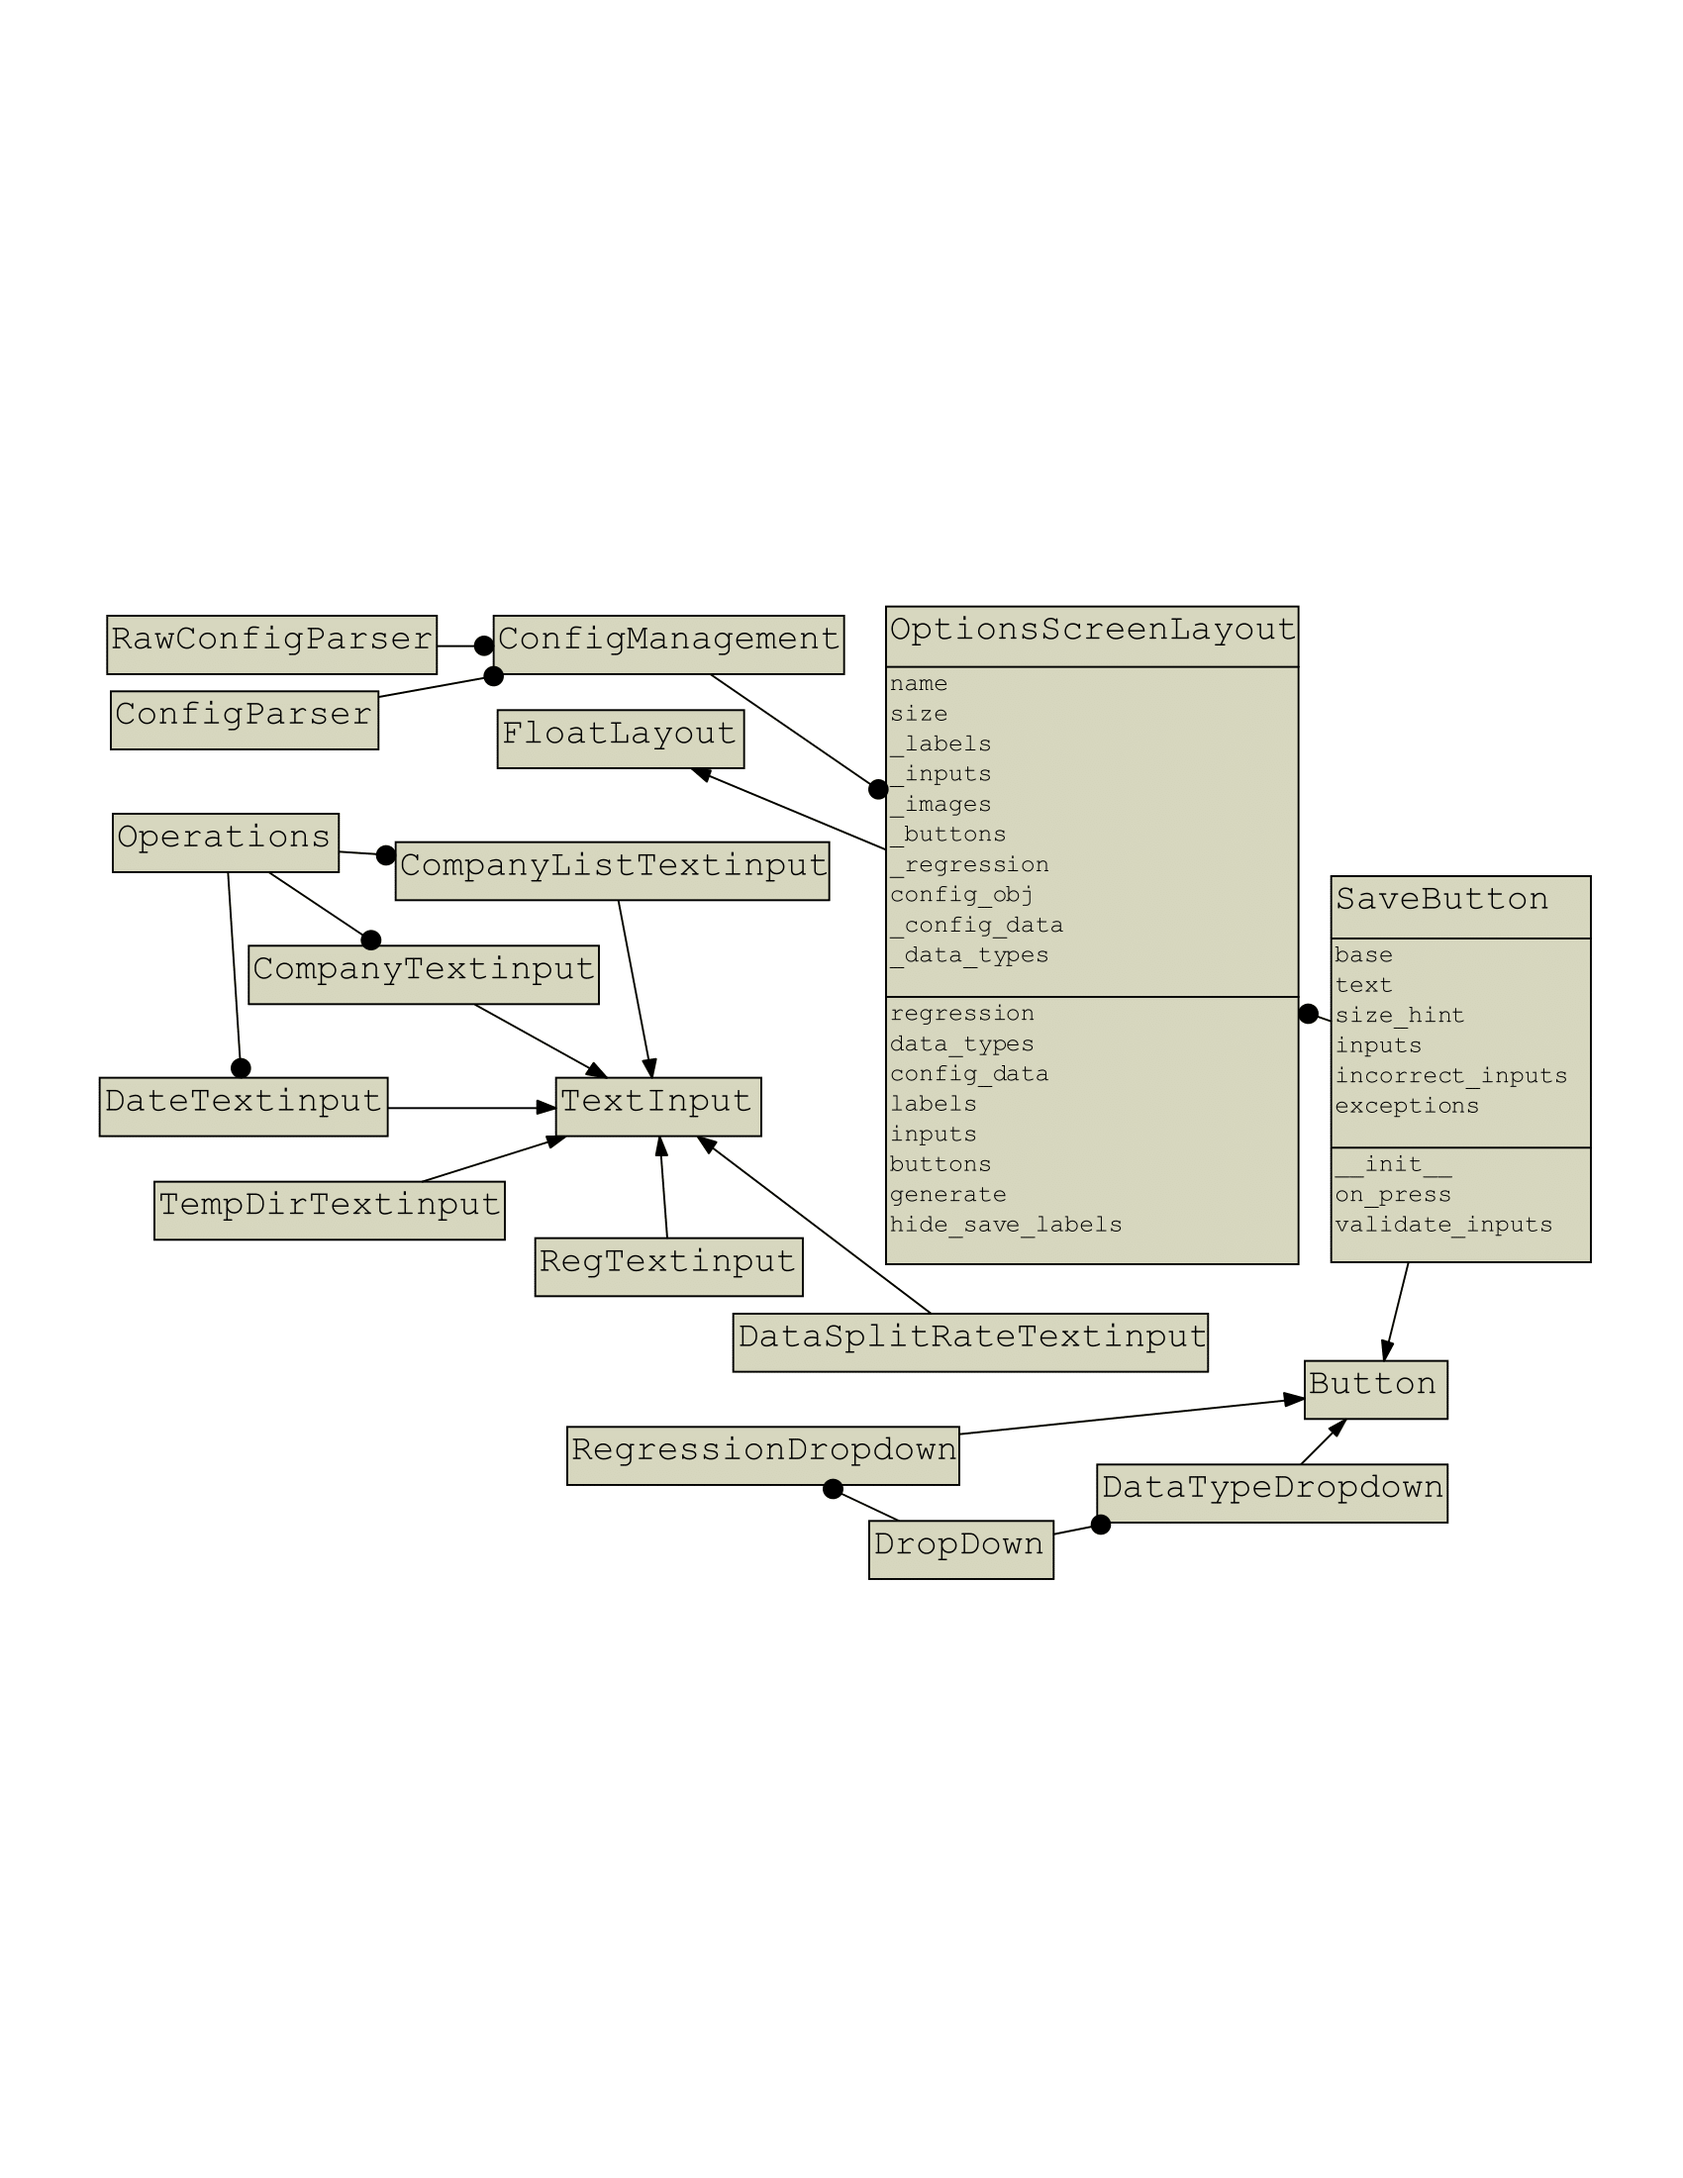
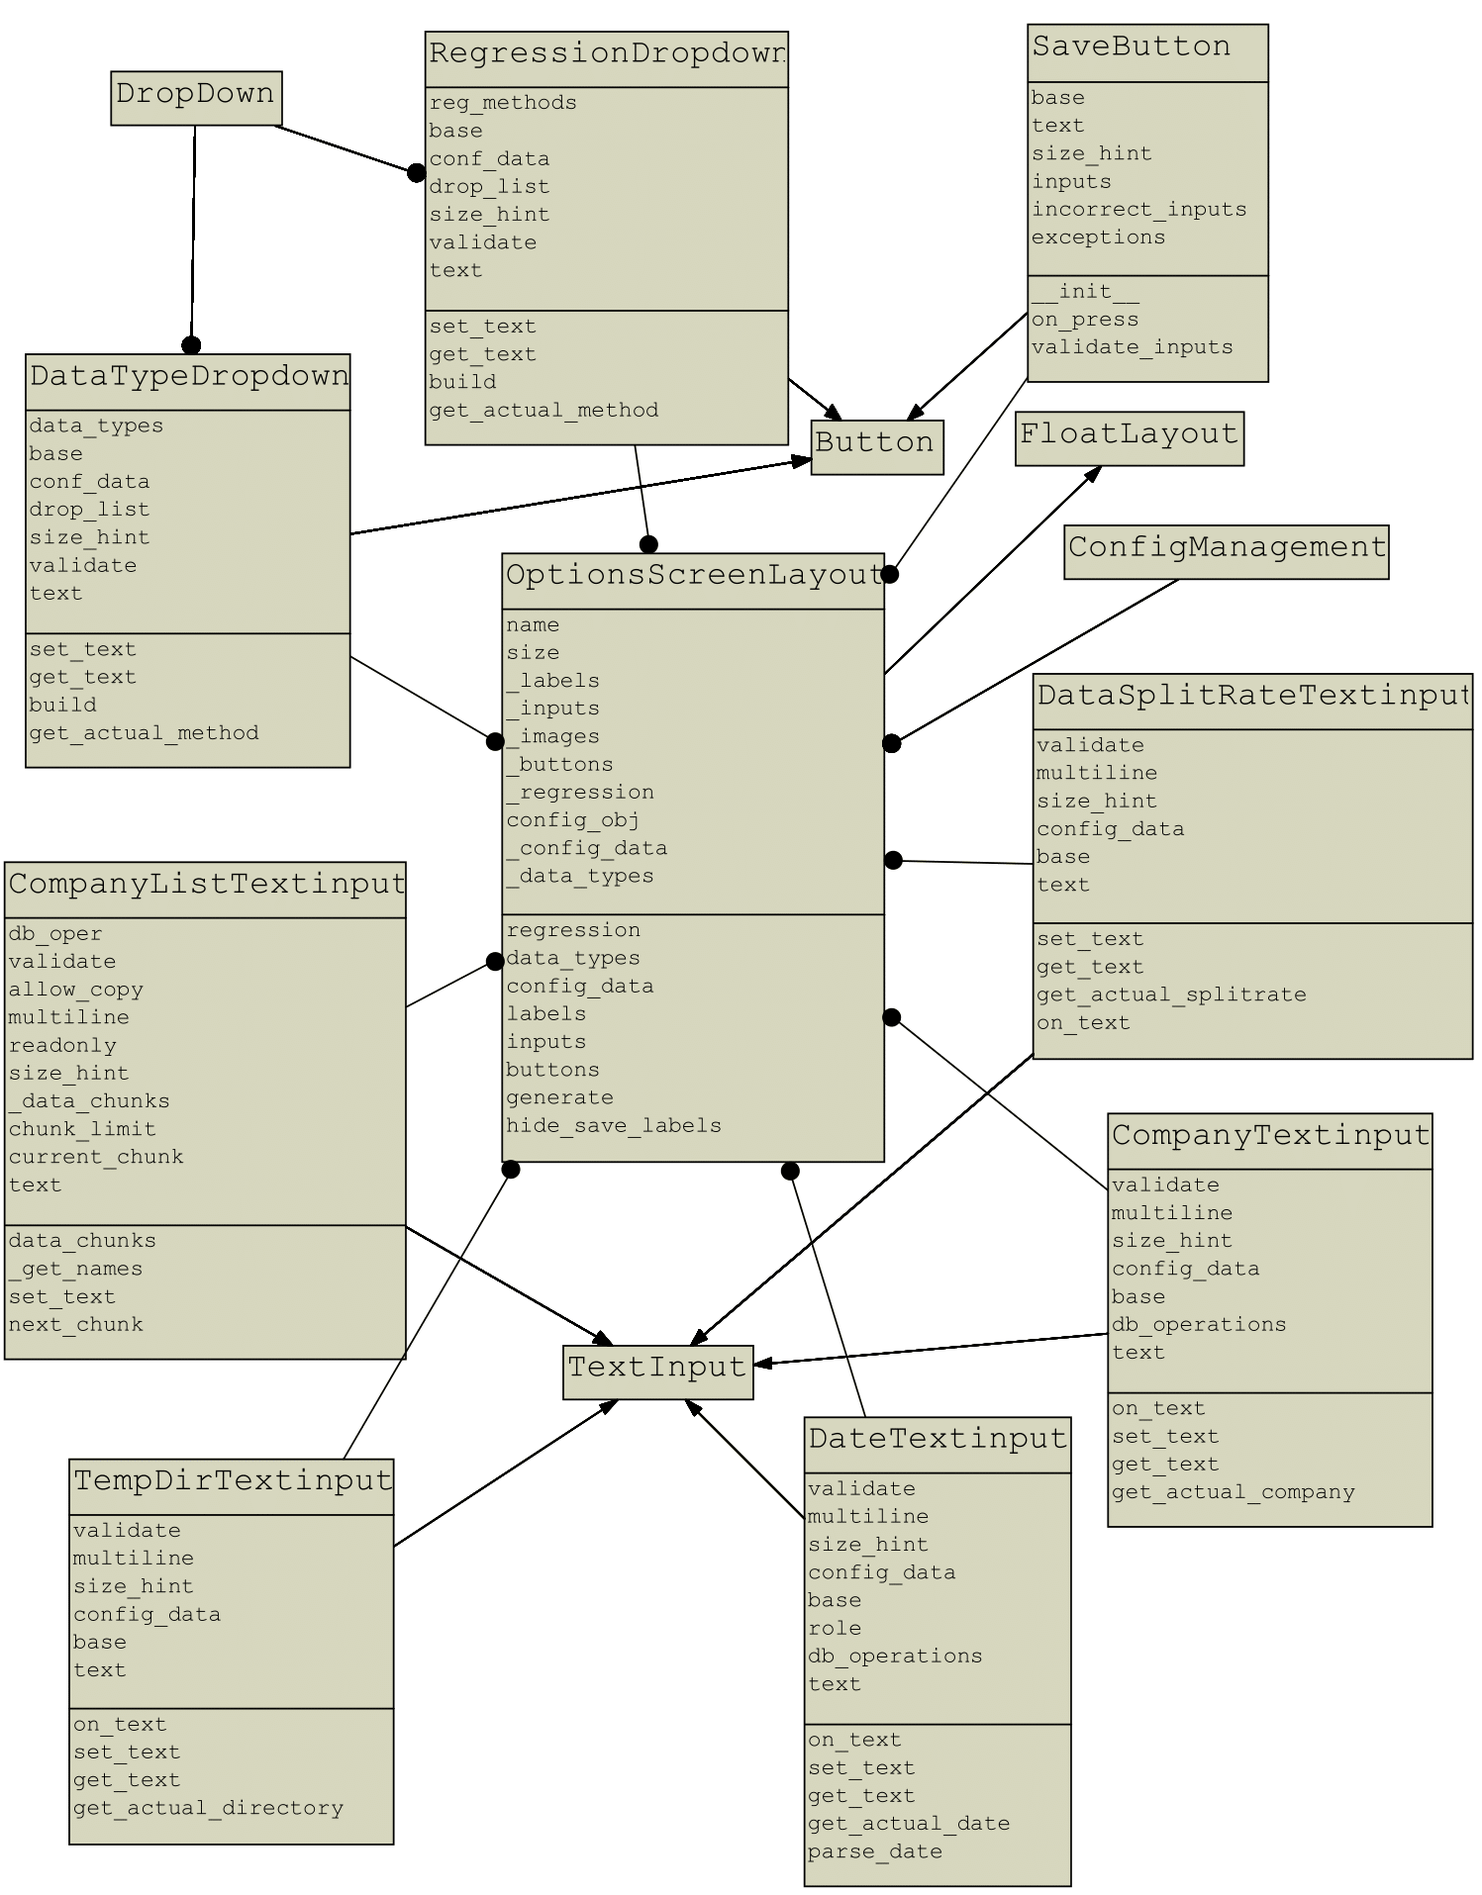
uml progress

diff --git a/chapter_3.tex b/chapter_3.tex
@@ -348,10 +348,38 @@ Ze względu na dużą ilość klas, w szczególności należących do graficzneg
 Wyróżnić można natomiast trzy główne funkcje aplikacji, które przedstawione na diagramie UML mogą posłużyć jako dobre odzwierciedlenie działania aplikacji.
 
 \subsection{Zapis parametrów w oknie opcji}
-Pierwszą główną funkcją aplikacji jest zapis wybranych przez użytkownika parametrów do pliku konfiguracyjnego.
+Pierwszą główną funkcją aplikacji jest zapis wybranych przez użytkownika parametrów do pliku konfiguracyjnego.\\
 \begin{figure}[h!]
 \centering
-\includegraphics[width=150mm]{pictures/uml_save.png}
+\includegraphics[width=150mm,heigh=100mm]{pictures/uml_save.png}
 \caption{Diagram UML: zapis parametrów w oknie opcji}
 \label{fig:Diagram UML: zapis parametrów w oknie opcji}
 \end{figure}
+
+Podstawową klasą jest \textit{OptionsScreenLayout}, która dziedziczy po klasie \textit{FloatLayout} należącej do biblioteki \textit{Kivy}, 
+a także implementuje klasy odpowiedzialne za zarządzenie konfiguracją (\textit{ConfigManagement}) oraz za przycisk zapisu konfiguracji (\textit{SaveButton}.)\\
+
+Pozostałe klasy, w zależności od przeznaczenia, dziedziczą po pochodzących z pakietu \textit{Kivy} klasach \textit{TextInput} praz \textit{Button}.
+Dwie klasy odpowiedzialne za implementację list rozwijanych dodatkowo implementują klasę \textit{DropDown}.\\
+
+\subsection{Pobieranie danych giełdowych}
+Kolejną funkcją aplikacji przedstawioną na schemacie UML jest mechanizm pobierania danych giełdowych.\\
+\begin{figure}[h!]
+\centering
+\includegraphics[width=150mm,heigh=100mm]{pictures/uml_load_data.png}
+\caption{Diagram UML: pobierane danych giełdowych}
+\label{fig:Diagram UML: pobieranie danych giełdowych}
+\end{figure}
+
+Przycisk odpowiedzialny za akcję, \textit{LoadDataButton}, dziedziczy po klasie \textit{Button} biblioteki \textit{Kivy}, oraz implementuje klasy zarządzania konfiguracją oraz pobierania danch (\textit{DataDownload}).
+Klasa odpowiadająca za pobieranie danych implementuje natomiast bazodanową klasę \textit{Operations}, która wraz z \textit{CompanyInfo} oraz \textit{DbDriver} umożliwiają dostęp do bazy danych nazw i znaczników giełdowych firm.\\
+
+\subsection{Analiza regresji}
+Ostatnią przedstawioną funkcją aplikacji jest przeprowadzanie analizy regresji.\\
+\begin{figure}[h!]
+\centering
+\includegraphics[width=150mm,heigh=100mm]{pictures/uml_regression.png}
+\caption{Diagram UML: analiza regresji}
+\label{fig:Diagram UML: analiza regresji}
+\end{figure}
+
